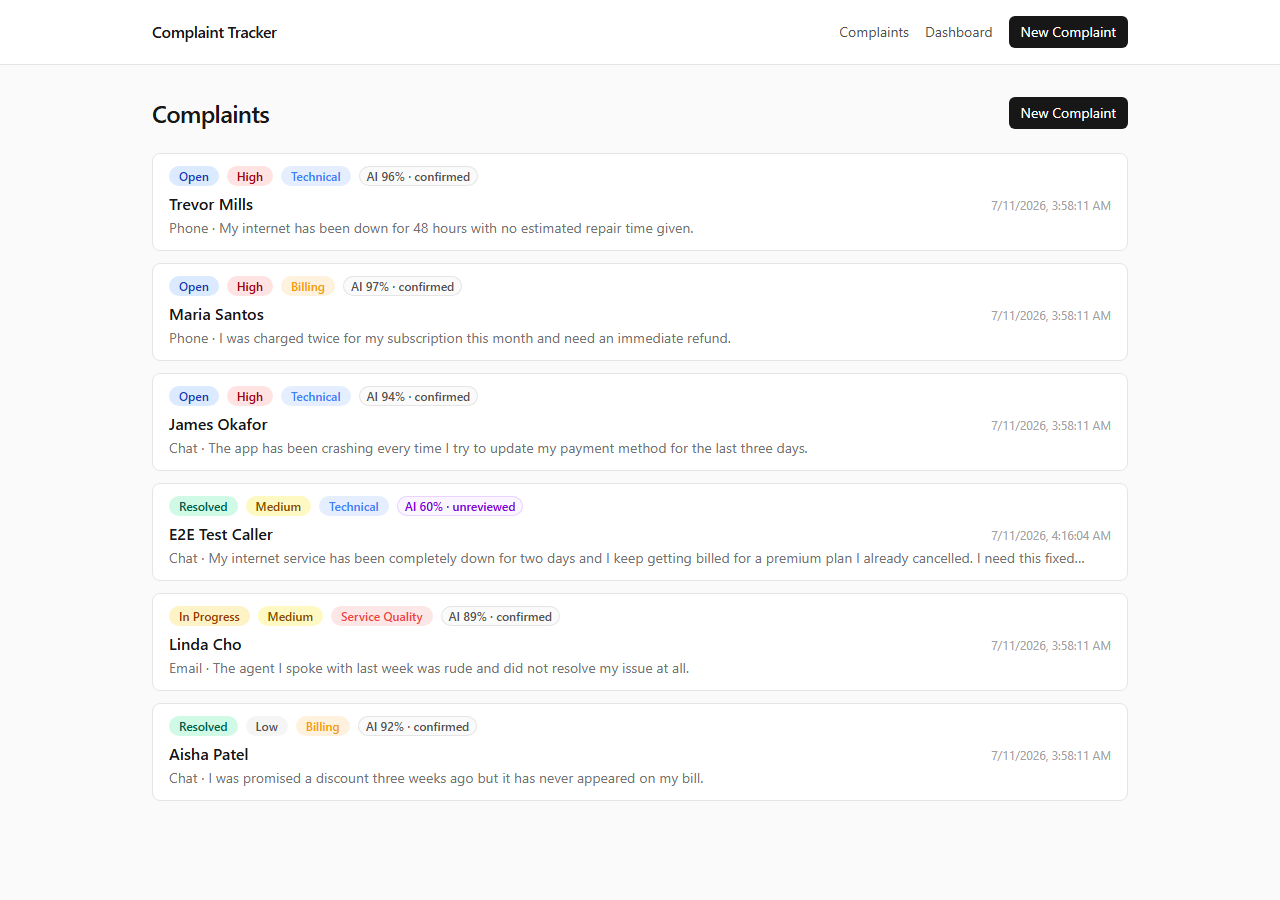
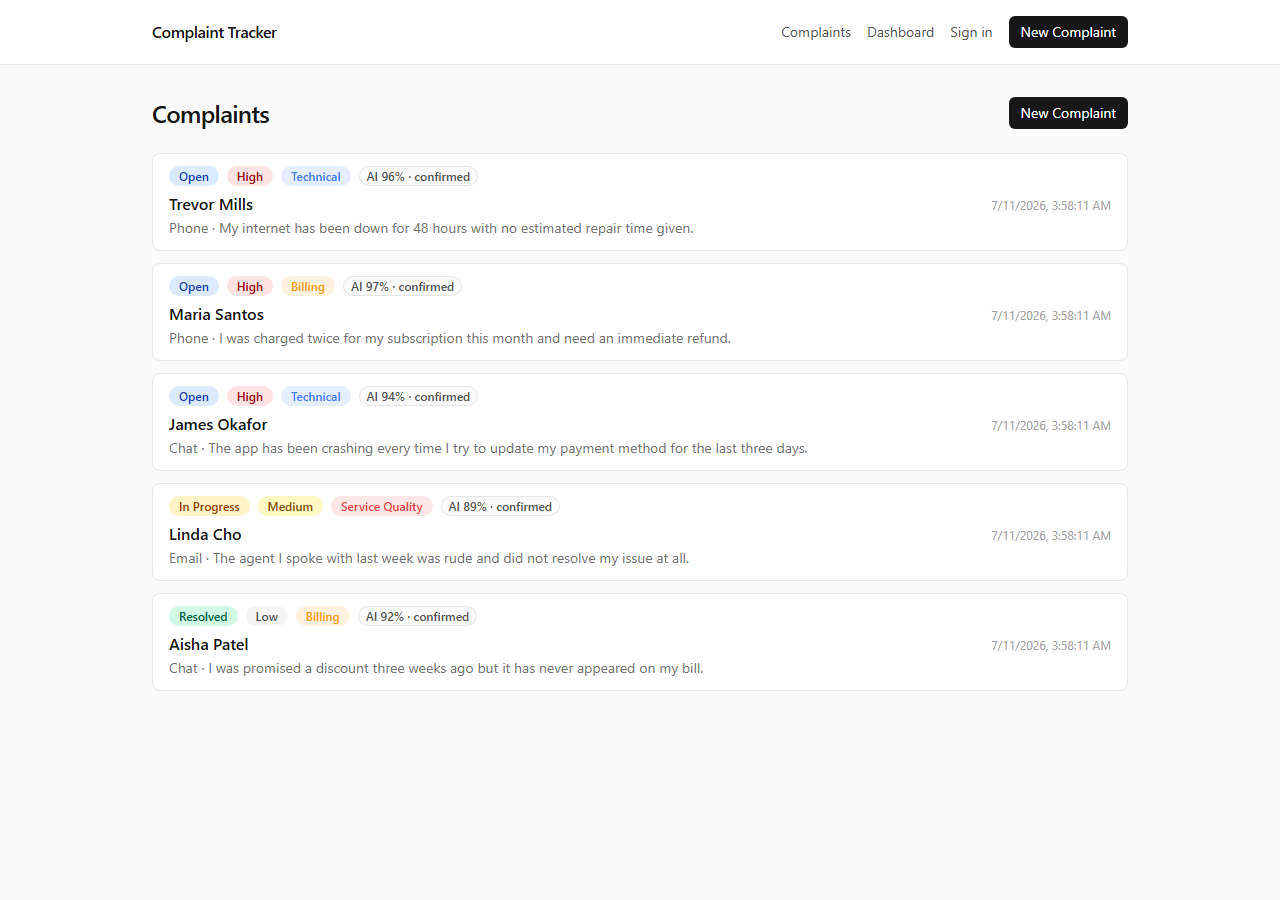
docs: document auth + RLS lockdown in README, refresh screenshots
README now covers both migrations, the demo-pool vs private-workspace
model, and the immutable audit log. Screenshots re-captured from the
live site after the lockdown deploy and test-data cleanup.

diff --git a/README.md b/README.md
@@ -52,13 +52,23 @@ Open http://localhost:3000.
 
 ### Database
 
-Apply `supabase/migrations/0001_init.sql` to your Supabase project (SQL editor, or `supabase db
-push`) before running the app — it creates `categories`, `complaints`, `audit_logs`, and seed rows.
+Apply the migrations in `supabase/migrations/` **in order** to your Supabase project (SQL editor,
+or `supabase db push`) before running the app:
+
+1. `0001_init.sql` — creates `categories`, `complaints`, `audit_logs`, and seed rows
+2. `0002_lock_down.sql` — replaces the permissive v1 policies with owner-scoped RLS
+
+## Auth & data isolation
+
+- **No login needed for the demo** — anonymous visitors get the full app against a shared public
+  demo pool (the seed data plus anything submitted without signing in).
+- **Sign up for a private workspace** (`/login`) — authenticated agents see only their own
+  complaints (`auth.uid() = user_id` RLS on every table); the demo pool and other agents' data
+  are invisible to them, and vice versa.
+- `audit_logs` is insert-only (immutable trail) and `categories` is read-only shared taxonomy —
+  enforced by RLS, not just application code.
 
 ## Notes
 
-- v1 has no login wall by design — the homepage is the working app with seed data, so it's
-  demoable and screenshot-able. Auth + per-agent data isolation is a later "Lock it down" sprint
-  (see [docs/TASKS.md](docs/TASKS.md)).
 - Secrets (`SUPABASE_SERVICE_ROLE_KEY`, `OPENAI_API_KEY`) are only ever read in `app/api/` routes,
-  never in client components.
+  never in client components. The browser only sees the public Supabase URL + publishable key.
